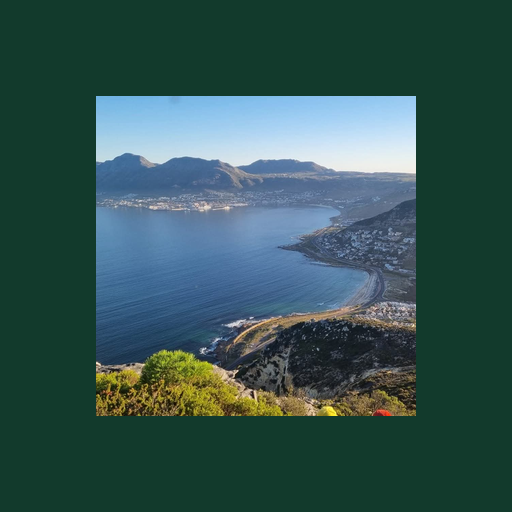
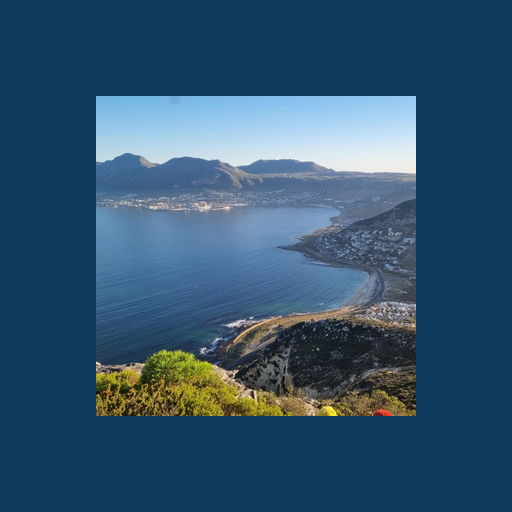
Switch site theme from green to blue
Updates CSS palette, PWA theme/background colors, and the maskable
icon backdrop to a blue that matches the new photo logo's sky/ocean tones.

diff --git a/styles.css b/styles.css
@@ -1,27 +1,25 @@
 :root {
-  --bg: #f4f1ea;
+  --bg: #eef4f8;
   --surface: #ffffff;
-  --text: #14261e;
-  --muted: #4b6156;
-  --brand: #123a2c;
-  --brand-light: #38825c;
+  --text: #142433;
+  --muted: #4d6b7a;
+  --brand: #0f3a5c;
+  --brand-light: #2e86c9;
   --accent: #d99a2b;
-  --border: #e2ddd0;
+  --border: #dbe6ee;
   color-scheme: light dark;
 }
 
 @media (prefers-color-scheme: dark) {
   :root {
-    --bg: #0e1e17;
-    --surface: #16302494;
-    --surface: #16302a;
-    --text: #eef2ef;
-    --muted: #a8bdb2;
-    --brand: #f7c760;
-    --brand-light: #7fc99e;
-    --accent: #f7c760;
-    --border: #24413590;
-    --border: #244135;
+    --bg: #0b1720;
+    --surface: #142a3b;
+    --text: #eaf1f6;
+    --muted: #9db3c1;
+    --brand: #4fa3e3;
+    --brand-light: #6ec1f0;
+    --accent: #6ec1f0;
+    --border: #24384a;
   }
 }
 
@@ -53,7 +51,7 @@ body {
 
 header.hero {
   width: 100%;
-  background: linear-gradient(180deg, var(--brand) 0%, #0d2b21 100%);
+  background: linear-gradient(180deg, var(--brand) 0%, #0a2438 100%);
   color: #fdf8ee;
   padding: 48px 20px 32px;
   display: flex;
@@ -122,7 +120,7 @@ h2.section-title {
   width: 44px;
   height: 44px;
   border-radius: 12px;
-  background: rgba(56, 130, 92, 0.15);
+  background: rgba(46, 134, 201, 0.15);
   display: flex;
   align-items: center;
   justify-content: center;
@@ -175,7 +173,7 @@ h2.section-title {
   width: 100%;
   border: none;
   background: var(--brand-light);
-  color: #0d2b21;
+  color: #0a2438;
   font-weight: 600;
   padding: 12px;
   border-radius: 12px;

diff --git a/index.html b/index.html
@@ -7,7 +7,7 @@
   <meta name="description" content="Groups, announcements and local business listings for the Valley Community." />
 
   <link rel="manifest" href="manifest.webmanifest" />
-  <meta name="theme-color" content="#123a2c" />
+  <meta name="theme-color" content="#0f3a5c" />
 
   <link rel="icon" href="favicon.ico" sizes="any" />
   <link rel="icon" href="icons/icon-192.png" type="image/png" sizes="192x192" />